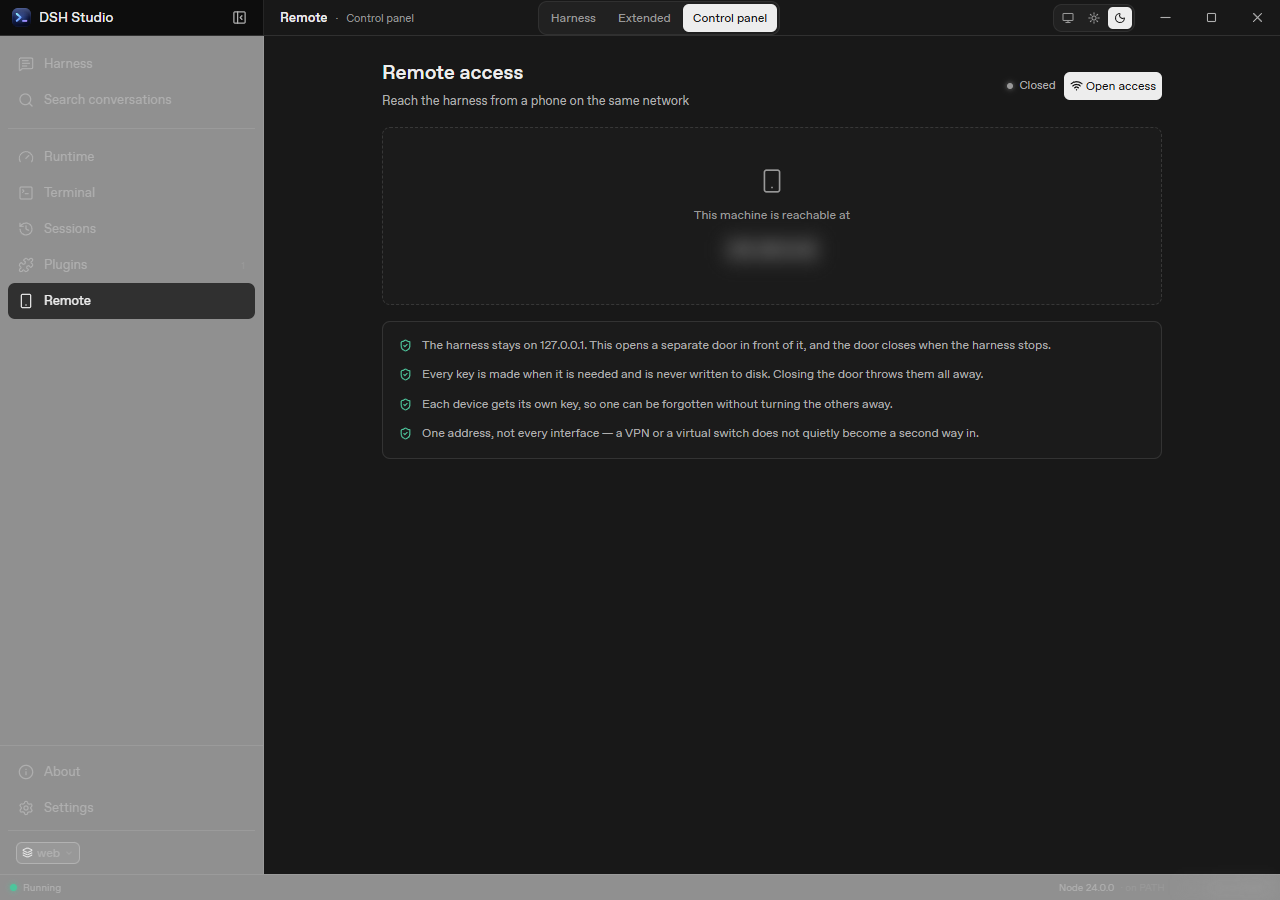
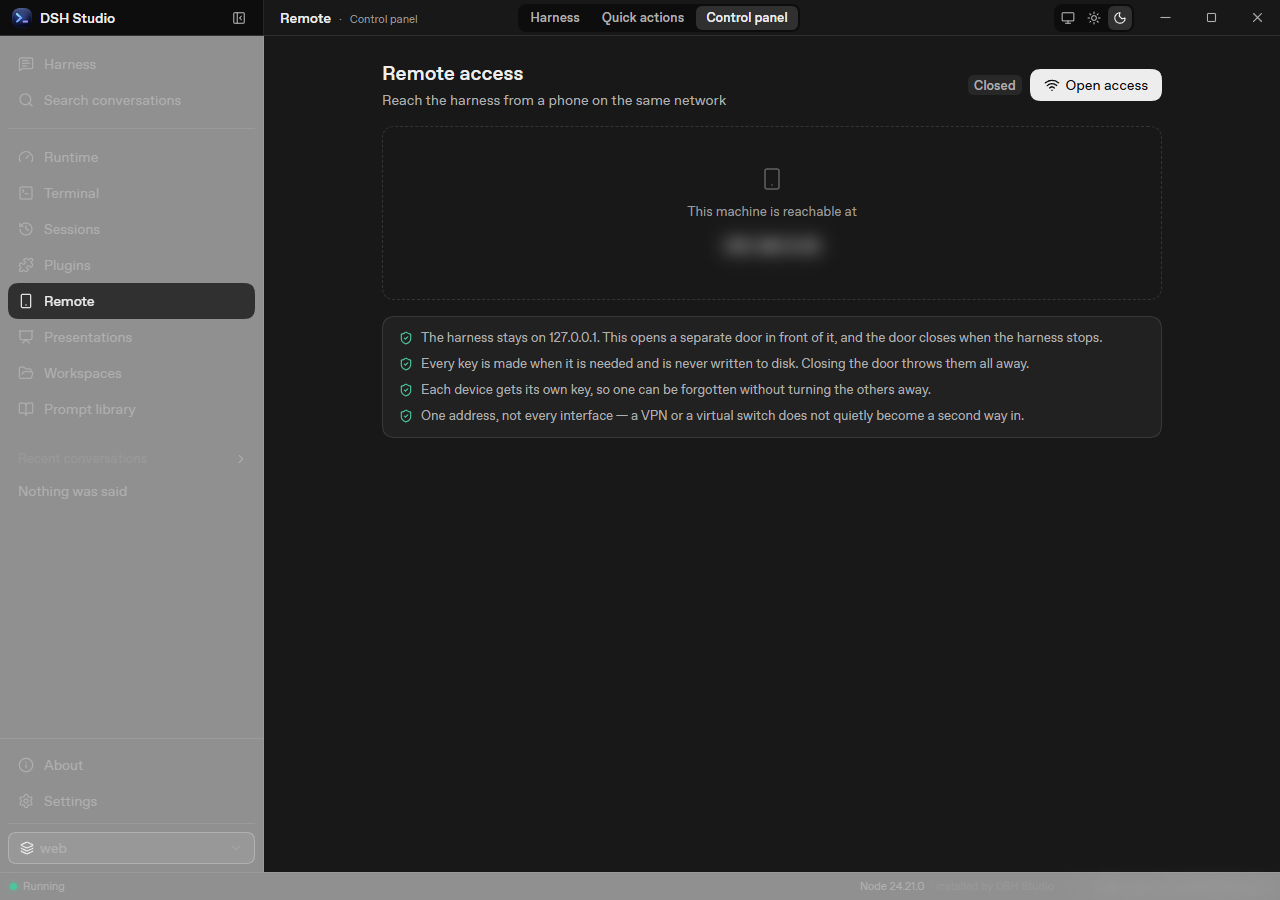
chore: 准备 v0.9.26 发布并更新桌面验收截图

diff --git a/src/styles/app.css b/src/styles/app.css
@@ -891,8 +891,8 @@
   }
 
   /*
-   * Segmented controls: a recessed track with the selected option raised out of
-   * it, inverse, the shape a desktop toolbar has used for thirty years. Track and
+   * Segmented controls: a recessed track with a neutral selected option raised
+   * out of it. Track and
    * option step with the button scale, so a segmented control and a button in the
    * same row share a height, and the option is the track less its own gutter.
    */

diff --git a/.github/release-notes/0.9.26.zh-CN.md b/.github/release-notes/0.9.26.zh-CN.md
@@ -1,0 +1,35 @@
+# DSH Studio v0.9.26
+
+## 新功能
+
+- 工作区文件浏览增加跨目录文件名/相对路径搜索、前进/后退历史、Alt+左/右快捷键，以及带行号和自动换行的文本预览。预览最多显示 5,000 行，复制仍保留整个已读取文件。
+- 新增按工作区隔离的项目笔记：自动保存、Ctrl+S、持久化草稿检查点、重启恢复、并发版本检查、另存副本和带确认的放弃操作。
+- Git 差异增加逐文件选择、统一/双栏视图、修改前后行号及带引号 UTF-8 文件名解码；二进制和仅元数据变更也可单独查看。
+
+## 变更与安全
+
+- 项目笔记写入 Studio 应用数据，不向项目仓库写文件。切换工作区、关闭窗口、安装更新和渲染器恢复会保护未完成编辑；并发冲突不会静默覆盖另一窗口的版本。
+- 文件搜索最多扫描 20,000 项、32 层并返回 300 条匹配，跳过依赖/构建目录，不跟随链接。笔记限制每条正文 64 KiB、每项目 100 条、200 个项目及总存储 4 MiB；过期工作区和草稿确认会被拒绝。
+- 笔记编辑按需加载，生命周期保护提前生效；继续遵守原有 450 KiB 入口包预算。公开 Protocol 3 与 Host Protocol 1 保持不变。
+
+## 修复与打磨
+
+- 按刷新后的桌面设计规范调整深浅主题的字重、控件尺寸、输入框圆角、复选框和分段选择的中性浮起选中状态；保留键盘焦点及减弱动画支持。
+- 修复已有笔记及恢复草稿保存时误传原生更新时间的问题，保存/检查点只提交可编辑字段。
+- 修复 Windows 下 Git 与原生路径分隔符不同导致当前工作树识别错误的问题。
+- 增加明确的放弃修改入口，保护保存失败时的文本；旧确认不会丢弃确认后新输入的内容。保留已保存笔记及磁盘备份草稿。
+- 更新中英文说明、使用指南及 14 张真实桌面截图，补充项目笔记和双栏差异示例。
+
+## 验证
+
+- 717 项前端测试、587 项常规执行的 Rust 测试及 158 项打包测试通过；前端已纳入覆盖范围的逻辑行覆盖率 99.20%。额外运行时范围校验验证 4,716 组范围。
+- 类型检查、严格 lint/Clippy、生产构建与体积预算、原生命令/ACL 合同、Tauri 版本配对、可访问性及双语文档检查通过。
+- 真实 Windows WebView 完成深浅主题、900×620/1100×740/1440×900 的页面导航；逐项验证笔记保存/冲突/重启恢复/删除取消、工作区切换与关闭保护、文件搜索/长文本完整复制/二进制提示、逐文件双栏差异、提示库、会话整理和备份导入。
+- 实际点击检查更新及版本历史；验证三轮 Harness 启停、终端命令与分屏、远程访问开启/关闭、文稿编辑保存及撤销重做。受管理 Node 24.21 下重新安装 Harness，隔离启动验证成功后完成替换；安装期间界面仍可操作。
+- 系统文件选择器、付费模型调用及 macOS/Linux 物理真机 GUI 不在本轮本地验证范围；跨平台冷安装、构建与安装资源验收由发布流水线继续执行，通过后才正式发布。
+
+## 安装
+
+- 可覆盖升级 v0.9.25，保留已有运行时、配置、会话及界面偏好。项目笔记不包含在个人资料 JSON 备份中，请同时备份应用数据目录。
+- 提供 Windows x64、Linux x64、macOS Apple Silicon/Intel/Universal；Lite 按需安装运行时，Full/Offline 携带运行资源。Windows 便携版请完整解压，保留 EXE 旁的 dist/。
+- 应用内更新使用签名清单；更新包签名与操作系统发布者签名是独立机制。

diff --git a/docs/user-guide.md b/docs/user-guide.md
@@ -61,6 +61,17 @@ directories, open associated sessions or use the existing Git worktree manager
 and read-only review. A running Harness still requires a confirmed restart to
 apply a directory switch. Summaries inherit transcript read limits and are not billing records.
 
+**Project notes** belong to the selected workspace and are stored in Studio's app
+data, not in the repository. Changes save after a short pause; Ctrl+S saves now.
+Draft checkpoints survive restart. Recover a draft as a new note or explicitly
+discard the reviewed backup. A concurrent revision is never overwritten silently:
+save a copy or reload after preserving your text. Workspace switching, close,
+updates and renderer recovery wait for safe saves. Each note accepts 64 KiB of
+UTF-8 body text; the native store is bounded to 4 MiB, 200 projects and 100 notes
+per project. These notes are separate from the personal-library JSON backup.
+If saving fails, **Discard changes** offers a confirmed way to leave the editor.
+It drops only the reviewed local edits, keeping saved notes and disk checkpoints.
+
 ## Reading and export
 
 **Organize selection** selects current session results for batch pinning/unpinning
@@ -76,7 +87,12 @@ conflicts. Records absent from the backup remain. Concurrent changes require a
 fresh preview; corrupt, unknown-format and over-2-MiB input is rejected.
 
 **Browse files** in Workspaces lazily lists the current workspace, with filtering,
-parent navigation, read-only text preview and copying. Each directory displays
+parent navigation, Back/Forward history, read-only text preview and copying.
+Alt+Left/Right navigates history. Switch to workspace search to match file names
+and relative paths recursively; it scans at most 20,000 entries and 32 levels,
+returns at most 300 matches and skips dependency/build folders. This does not
+search file contents. Preview line numbers, wrapping and the 5,000-line display
+limit do not change the original text copied to the clipboard. Each directory displays
 at most 1,500 entries; previews accept valid UTF-8 text up to 1 MiB. Binary files
 and editing are unsupported. Symlinks and Windows reparse points are not followed;
 requests for an old workspace are rejected after switching roots.
@@ -167,6 +183,10 @@ Settings lists the current repository's Git worktrees and can create an isolated
 The two status columns distinguish index changes from working-copy changes; untracked paths are
 listed without reading their contents. The current-worktree label follows the selected workspace,
 including linked worktrees. Refresh after edits because this is not a live editor.
+
+Choose an individual file and unified or side-by-side layout, with old/new line
+numbers. Quoted UTF-8 paths are decoded using Git's format. Click a staged or
+unstaged file entry to open its corresponding patch.
 
 Each diff is limited to 256 KiB and 5,000 lines. Oversized diffs are explicitly withheld, not silently
 shown as complete; the file list remains available. More than 5,000 changed paths or oversized Git

diff --git a/.github/release-notes/0.9.26.en.md b/.github/release-notes/0.9.26.en.md
@@ -1,0 +1,29 @@
+# DSH Studio v0.9.26
+
+## New features
+
+- Bounded workspace filename/path search, Back/Forward history, keyboard shortcuts and wrapped, numbered text previews. The preview shows up to 5,000 lines; copying retains the complete loaded file.
+- Workspace-scoped local notes with autosave, persistent draft checkpoints, restart recovery, revision conflicts, separate copies and confirmed discard actions.
+- Per-file unified/side-by-side Git review with old/new line numbers, quoted UTF-8 paths and binary/metadata-only change navigation.
+
+## Changes and security
+
+- Notes use atomic application-owned storage and protect unfinished edits during workspace switching, close, updates and renderer recovery. Stale roots, revisions and draft confirmations fail without overwriting data.
+- Bound file traversal and note storage; exclude dependency/build trees and links. Note editing loads on demand within the existing 450 KiB entry budget. Public Protocol 3 and Host Protocol 1 remain unchanged.
+
+## Fixes and polish
+
+- Refresh shared typography, control sizes, field corners, checkboxes and raised neutral segmented selections in both themes.
+- Remove native-owned timestamps from note write requests so existing notes and recovered drafts save correctly; normalize Windows Git path separators to identify the current worktree.
+- Add guarded discard actions and update bilingual guides and 14 actual desktop screenshots.
+
+## Verification
+
+- 717 frontend, 587 regular Rust and 158 packaging tests passed; tracked frontend logic reached 99.20% line coverage. The additional runtime oracle checked 4,716 ranges. Type/lint/Clippy, build budget, ACL/contracts, Tauri pairing, accessibility and documentation checks passed.
+- Actual Windows WebView checks covered both themes and three viewport sizes, note conflicts/restart recovery/close protection, file previews/search, per-file review, prompt/session/backup flows, updates, Harness transitions, PTYs, remote controls and presentation editing. Managed Node 24.21 reinstallation completed after isolated Harness startup verification while the UI remained responsive.
+- OS file pickers, paid model calls and physical macOS/Linux GUI were not locally verified. Release CI continues cross-platform cold-runtime, build, installation and resource acceptance before publication.
+
+## Installation
+
+- Upgrade over v0.9.25 without resetting runtime, profiles, sessions or preferences. Project notes are separate from personal-library JSON backups; include the application data directory in backups.
+- Windows x64, Linux x64 and macOS Apple Silicon/Intel/Universal packages are available in Lite and Full/Offline variants. Fully extract Windows portable packages and retain dist/ beside the executable. Application updates use signed manifests.

diff --git a/docs/user-guide.zh-CN.md b/docs/user-guide.zh-CN.md
@@ -59,8 +59,19 @@ Web 界面。Studio 外壳从同一回环站点（`http://127.0.0.1`）伺服自
 必须重新预览，损坏、未知格式或超过 2 MiB 的文件会被拒绝。
 
 工作区页的「浏览文件」按目录加载当前工作区，支持筛选、返回上级、文本预览和复制。
+支持前进/后退目录历史及 Alt+左/右快捷键，切换到工作区搜索可跨目录匹配文件名和相对
+路径，不搜索文件正文。最多扫描 20,000 项、32 层，返回 300 条匹配，跳过依赖和构建
+目录。预览支持行号及自动换行，最多显示 5,000 行；复制仍使用原始文本。
 每个目录最多显示 1,500 项，文本文件最多 1 MiB，仅接受有效 UTF-8 文本；不支持二进制
 预览或编辑。符号链接及 Windows 重解析点不跟随；切换工作区后旧请求会被拒绝。
+
+「项目笔记」按所选工作区分开，保存在 Studio 应用数据中，不向仓库写入文件。输入暂停
+后自动保存，Ctrl+S 可立即保存。草稿检查点在重启后保留，可恢复为新笔记或明确丢弃
+已审阅的备份。并发版本冲突不会静默覆盖，可另存副本或保留文本后重新加载。工作区
+切换、关闭、更新和渲染器恢复等待安全保存。每条正文最多 64 KiB UTF-8，原生存储最多
+4 MiB、200 个项目、每项目 100 条笔记；此类笔记不包含在个人资料 JSON 备份中。
+保存失败时，可通过带确认的「放弃修改」离开编辑；只丢弃已审阅的本地修改，保留已保存
+笔记和磁盘上的备份草稿。
 
 可以按内容搜索已有会话、打开命中片段，并将原生记录导出为 Markdown、HTML 或 JSON。
 长会话每段显示最多 120 条消息，底部可切换上一段、下一段、最早或最新消息；搜索直接
@@ -128,6 +139,9 @@ Profile 清单。该服务不提供原生句柄、命令执行器、包修改或
 变更路径，分别查看已暂存和未暂存差异。两列状态区分暂存区与工作目录的修改；未跟踪
 路径只列名称，不读取内容。“当前工作树”跟随所选工作区，也适用于关联工作树。此处
 不是实时编辑器，修改文件后请刷新。
+
+差异页可选择单个文件、统一视图或双栏视图，并显示修改前后行号；文件名中的带引号
+UTF-8 路径按 Git 格式解码。文件列表中的已暂存/未暂存项目可直接打开对应差异。
 
 每份差异限制为 256 KiB 和 5,000 行。超限时明确提示，不把不完整结果当作完整差异；
 仍可查看文件列表。超过 5,000 个变更路径或 Git 状态输出超限时，请使用 Git 直接审阅。

diff --git a/README.md b/README.md
@@ -73,6 +73,9 @@ Harness logs; close, update and recovery protect unfinished edits.
 Batch pins/tags organize selected sessions. Prompt JSON import/export and personal
 backups preview conflicts and reject stale confirmations. Workspace browsing lazily
 loads directories and previews/copies bounded UTF-8 text without editing files.
+Find file names and paths across the workspace, navigate folder history and read
+wrapped, numbered previews. Project notes auto-save with durable draft recovery
+and revision conflicts; Git review offers per-file unified and side-by-side views.
 
 <img src="assets/prompt-library.png" width="820" alt="Local prompt library in the actual desktop: shared cards, tags and copy actions">
 
@@ -80,6 +83,15 @@ The prompt-library image uses v0.9.24 in isolated Windows QA, with
 demonstration content and processed local paths.
 
 <img src="assets/workspace-files.png" width="820" alt="Workspace files in the actual desktop: lazy folders, filtering, read-only text preview and copying">
+
+Project notes stay separate for each workspace, with local autosave and recoverable
+drafts. Revision conflicts keep your text available for a separate copy.
+
+<img src="assets/project-notes.png" width="820" alt="Actual desktop project notes with workspace isolation, saved status and local editing">
+
+Select a changed file and compare its old/new lines side by side without modifying Git.
+
+<img src="assets/worktree-review.png" width="820" alt="Actual desktop read-only per-file Git review with side-by-side line numbers">
 
 The file-browser image uses isolated demonstration data. Links, special files
 and oversized previews are rejected.

diff --git a/CHANGELOG.md b/CHANGELOG.md
@@ -9,6 +9,21 @@ pre-1.0 caveat that anything may still move.
 
 ## [Unreleased]
 
+## [0.9.26] — 2026-10-06
+
+### Added
+
+- Search file names and relative paths across the current workspace, with bounded traversal, excluded dependency/build folders, directory history, Back/Forward shortcuts, wrapped text previews and line numbers.
+- Keep project notes locally with debounced saves, durable draft checkpoints, revision checks, conflict copies and explicit recovery/discard actions. Protect unfinished notes during workspace switching, close, updates and renderer recovery.
+- Review Git patches one file at a time in unified or side-by-side layouts, with old/new line numbers and decoded quoted UTF-8 paths. Preserve binary and truncation notices and read-only operation.
+
+### Fixes and polish
+
+- Align desktop typography, field corners, control heights, selection checkboxes and raised segmented selections with the refreshed desktop design system in both themes.
+- Load note editing on demand while retaining eager lifecycle guards and the existing production bundle limit. Report editor-load failures without dropping drafts.
+- Bound native note storage and file searches; reject stale roots, stale draft confirmations, concurrent note revisions, links and invalid/oversized input while preserving existing data.
+- Strip native-owned note timestamps from save/checkpoint requests so existing-note edits and recovered drafts can save. Normalize Windows Git path separators when identifying the current worktree.
+
 ## [0.9.25] — 2026-10-02
 
 ### Fixes and polish

diff --git a/CHANGELOG.zh-CN.md b/CHANGELOG.zh-CN.md
@@ -9,6 +9,21 @@
 
 ## [未发布]
 
+## [0.9.26] —— 2026-10-06
+
+### 新增
+
+- 当前工作区支持跨目录文件名和相对路径搜索、前进/后退历史及快捷键、文本预览行号和自动换行；搜索限制遍历规模，并跳过依赖与构建目录。
+- 项目笔记支持延迟自动保存、持久化草稿检查点、版本冲突检测、另存副本及明确的恢复/丢弃操作；切换工作区、关闭、更新和渲染器恢复保护未完成的笔记。
+- Git 差异支持逐文件统一/双栏审阅、修改前后行号及带引号 UTF-8 路径解码；保持只读，并保留二进制与截断提示。
+
+### 修复与打磨
+
+- 按更新后的桌面设计体系统一深浅主题的字重、输入框圆角、控件高度、复选框和分段选择的浮起选中效果。
+- 笔记编辑按需加载，生命周期保护仍在启动时生效，继续遵守既有生产包体限制；编辑模块加载失败时明确提示并保留草稿。
+- 原生笔记存储与文件搜索设置限额；拒绝旧工作区、过期草稿确认、并发笔记版本、链接和非法/超限输入，保留已有资料。
+- 保存与检查点请求排除原生管理的更新时间，修复已有笔记编辑和恢复草稿的保存失败；统一 Windows Git 路径分隔符，正确识别当前工作树。
+
 ## [0.9.25] —— 2026-10-02
 
 ### 修复与打磨
